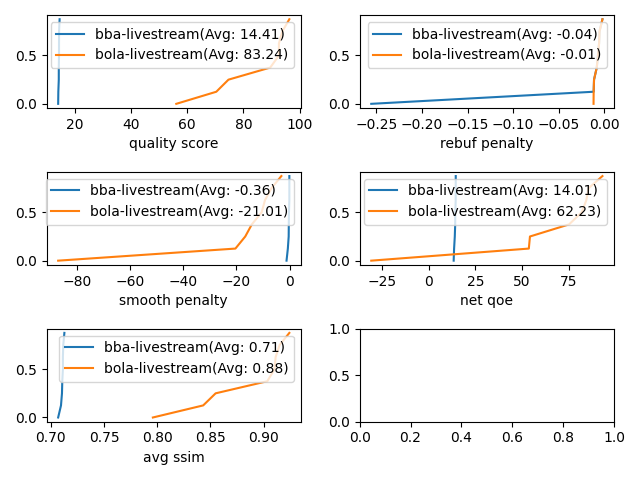
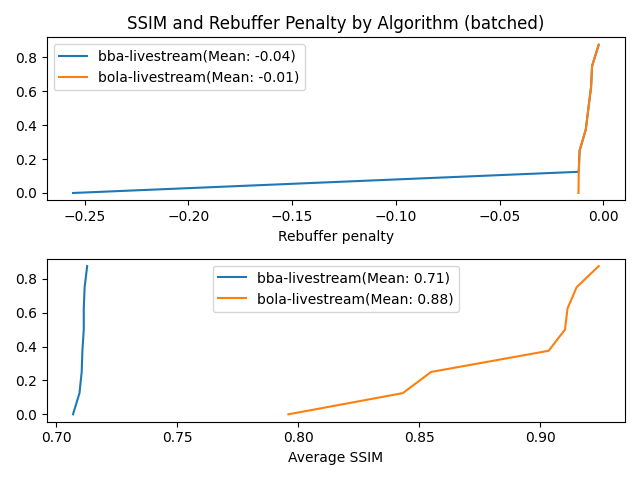
Updated plt_cdf to only show ssim and rebuffer (may revert)

diff --git a/scripts/plt_cdf.py b/scripts/plt_cdf.py
@@ -20,14 +20,14 @@ OUT_DIR = 'cdfs'
 def plot_cdf(ax, vals, label=''):
   x = sorted(vals)
   y = [i / float(len(vals)) for i in range(len(vals))]
-  ax.plot(x, y, label=label + '(Avg: %.2f)' % np.mean(x))
+  ax.plot(x, y, label=label + '(Mean: %.2f)' % np.mean(x))
   ax.legend()
 
 
 def main():
   runs = sorted(args.runs)
   for mode in ['train', 'test']:
-    f, axarr = plt.subplots(3, 2)
+    f, axarr = plt.subplots(2, 1)
     for run in runs:
       rebufs, smooths, qualities, qoes, ssims = [], [], [], [], []
       d = os.path.join(args.results_dir, run, mode)
@@ -40,16 +40,11 @@ def main():
         qoes.append(j['avg_net_qoe'])
         ssims.append(j['avg_ssim'])
 
-      plot_cdf(axarr[0][0], qualities, label=run)
-      axarr[0][0].set_xlabel('quality score')
-      plot_cdf(axarr[0][1], rebufs, label=run)
-      axarr[0][1].set_xlabel('rebuf penalty')
-      plot_cdf(axarr[1][0], smooths, label=run)
-      axarr[1][0].set_xlabel('smooth penalty')
-      plot_cdf(axarr[1][1], qoes, label=run)
-      axarr[1][1].set_xlabel('net qoe')
-      plot_cdf(axarr[2][0], ssims, label=run)
-      axarr[2][0].set_xlabel('avg ssim')
+      plot_cdf(axarr[0], rebufs, label=run)
+      axarr[0].set_xlabel('Rebuffer penalty')
+      axarr[0].title.set_text("SSIM and Rebuffer Penalty by Algorithm (batched)")
+      plot_cdf(axarr[1], ssims, label=run)
+      axarr[1].set_xlabel('Average SSIM')
 
     plt.tight_layout()
     utils.mkdir_if_not_exists(os.path.join(OUT_DIR, '_'.join(runs)))
